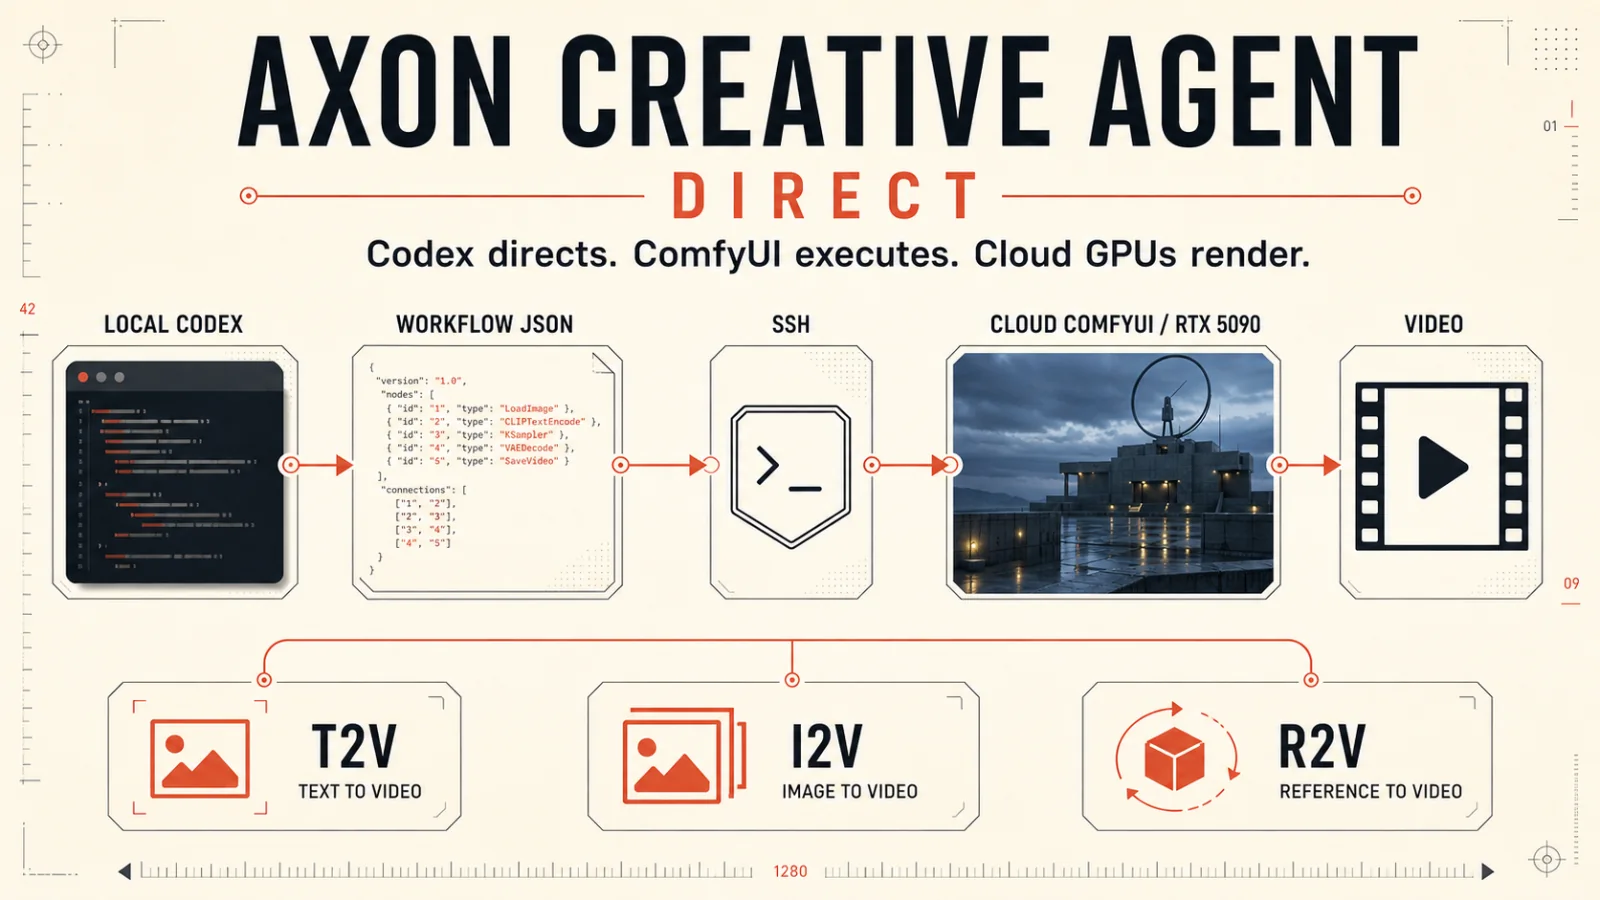
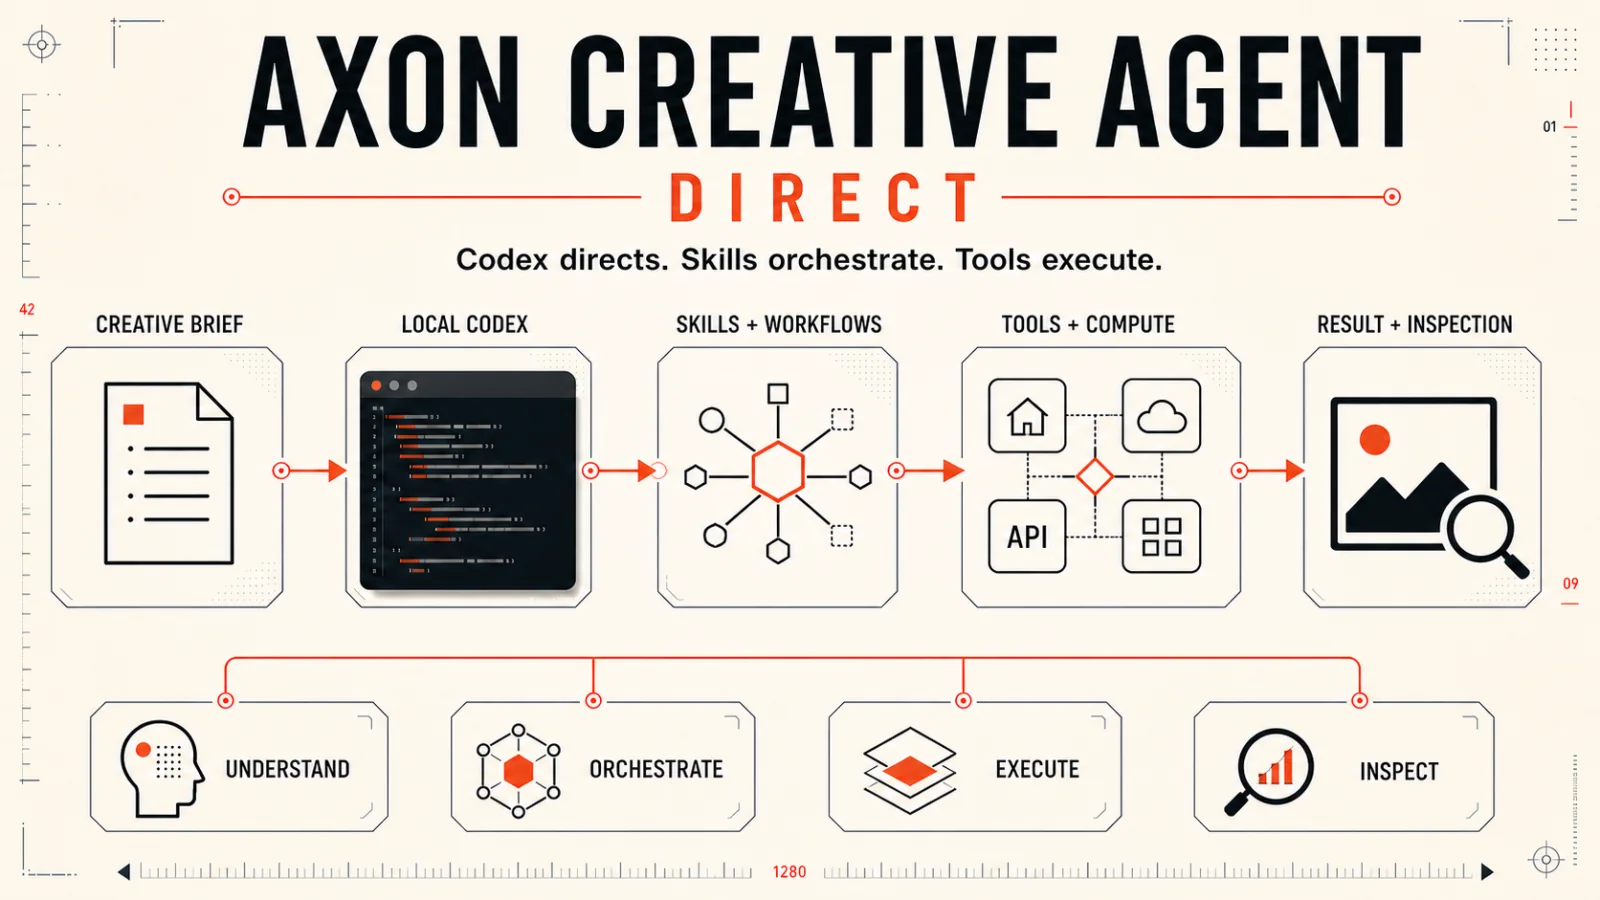
docs: generalize creative agent hero

diff --git a/README.zh-CN.md b/README.zh-CN.md
@@ -2,7 +2,7 @@
 
 [English](README.md) · [简体中文](README.zh-CN.md)
 
-![Axon Creative Agent——本地 Codex 驱动云端 ComfyUI 视频工作流](docs/assets/axon-creative-agent-hero.webp)
+![Axon Creative Agent——Codex 编排 Skills、工具与算力](docs/assets/axon-creative-agent-hero.webp)
 
 > **DIRECT —— Codex 负责导演，ComfyUI 负责执行，云端 GPU 负责生成。**
 

diff --git a/README.md b/README.md
@@ -2,7 +2,7 @@
 
 [English](README.md) · [简体中文](README.zh-CN.md)
 
-![Axon Creative Agent — local Codex directs cloud ComfyUI video workflows](docs/assets/axon-creative-agent-hero.webp)
+![Axon Creative Agent — Codex orchestrates skills, tools, and compute](docs/assets/axon-creative-agent-hero.webp)
 
 > **DIRECT — Codex directs. ComfyUI executes. Cloud GPUs render.**
 
